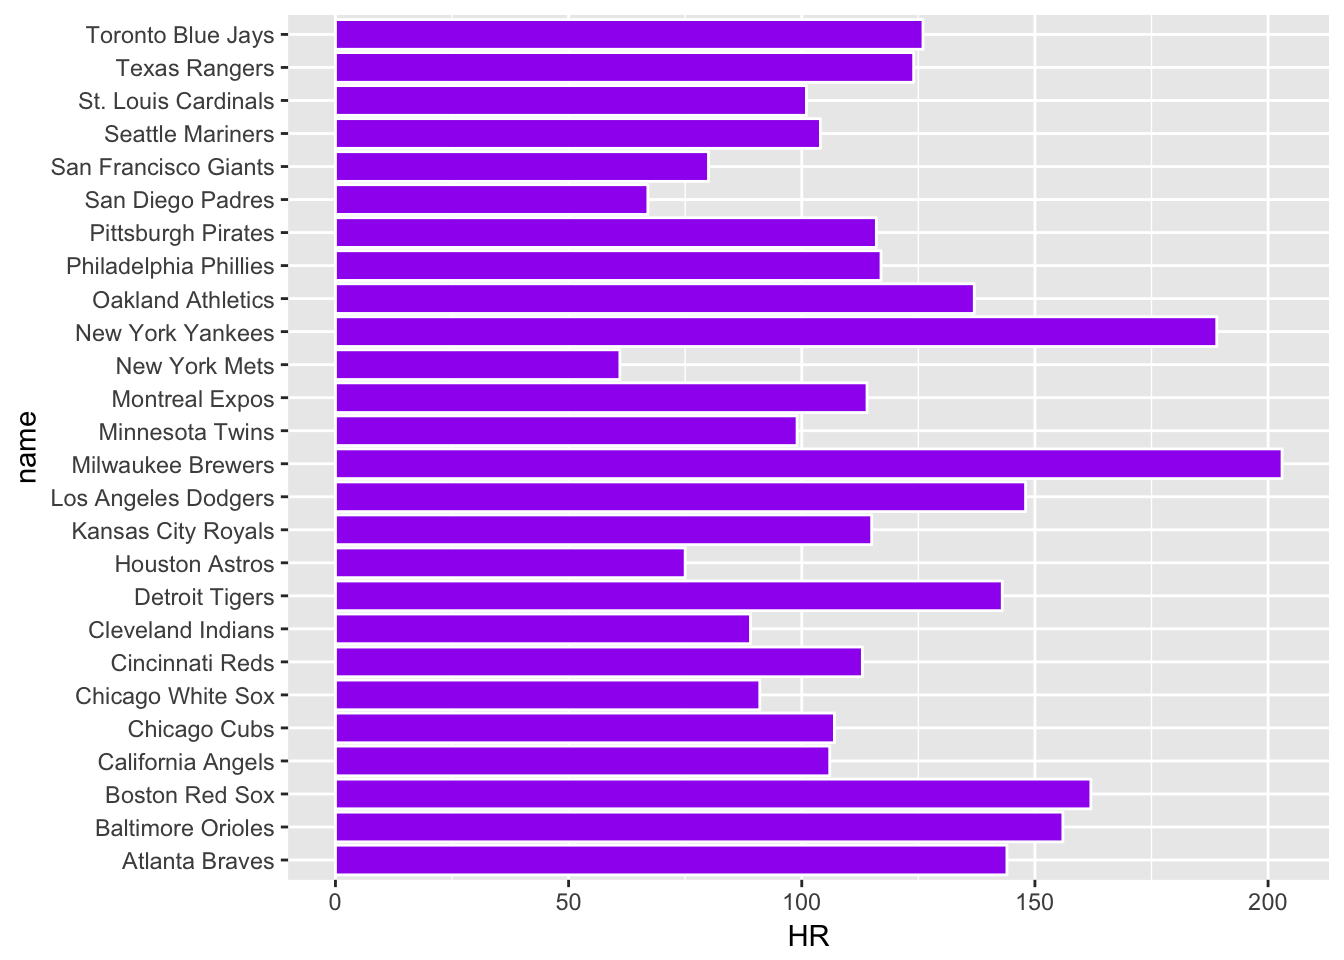
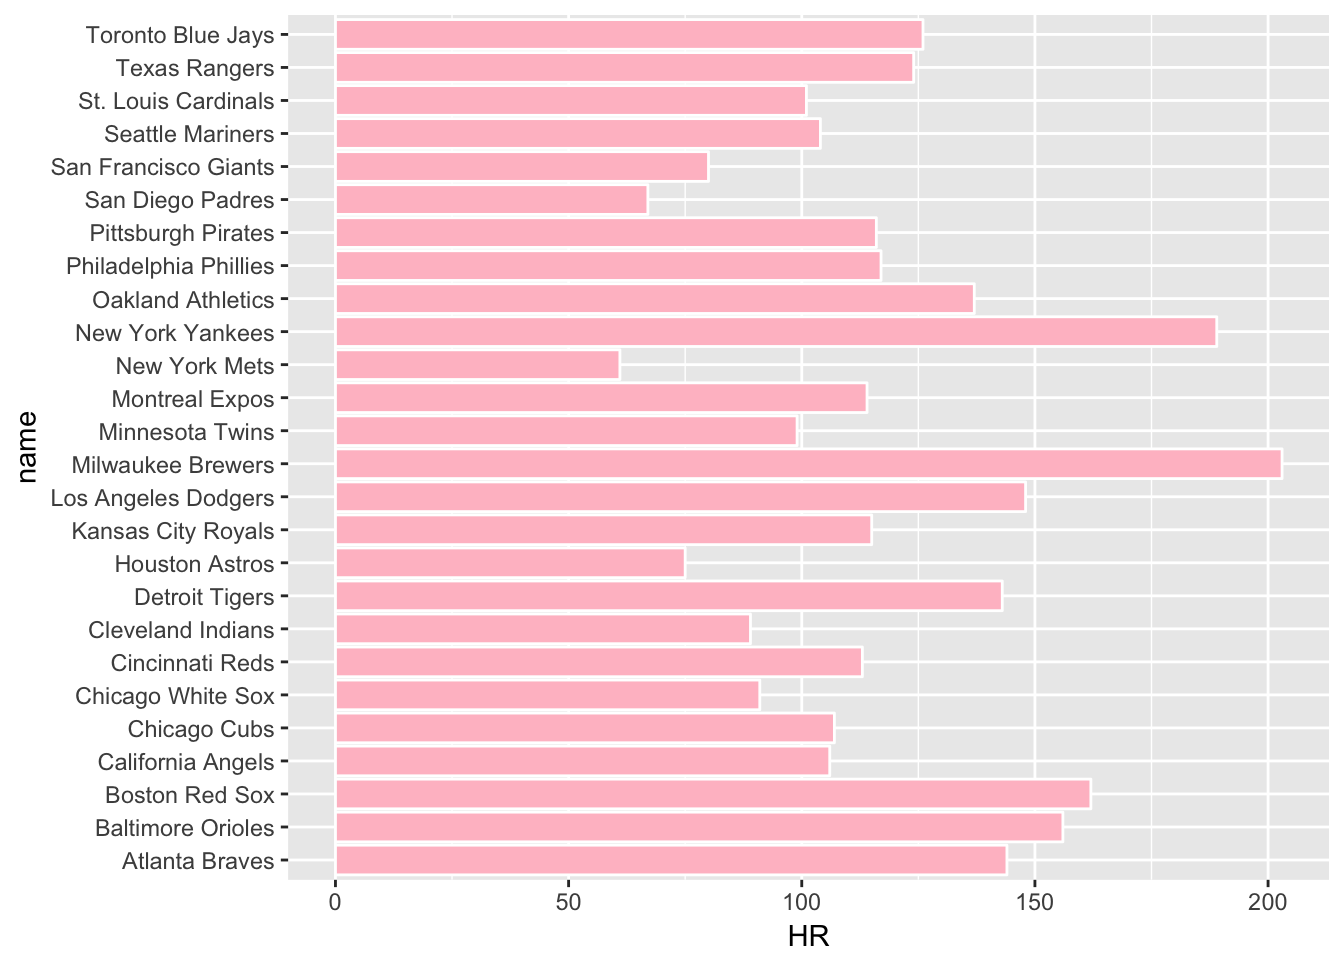
pink

diff --git a/public/index.html b/public/index.html
@@ -393,12 +393,12 @@ HR_VS_SO$name&lt;-paste(HR_VS_SO$nameFirst,HR_VS_SO$nameLast)</code></pre>
   select(name,HR)%&gt;%
   arrange(HR)</code></pre>
 <pre class="r"><code>ggplot()+
-  geom_bar(data = dft, aes(x=name,y=HR),stat = &quot;identity&quot;,color=&quot;white&quot;, fill=&quot;purple&quot;)+
+  geom_bar(data = dft, aes(x=name,y=HR),stat = &quot;identity&quot;,color=&quot;white&quot;, fill=&quot;pink&quot;)+
   coord_flip() </code></pre>
 <p><img src="/home/ggplot2-Bar-Chart_files/figure-html/unnamed-chunk-2-1.png" width="672" /></p>
 <p>dft<span class="math inline">\(name &lt;- factor(dft\)</span>name,levels=dft$name)</p>
 <pre class="r"><code>ggplot()+
-  geom_bar(data = dft, aes(x=name,y=HR),stat = &quot;identity&quot;,color=&quot;white&quot;, fill=&quot;purple&quot;)+
+  geom_bar(data = dft, aes(x=name,y=HR),stat = &quot;identity&quot;,color=&quot;white&quot;, fill=&quot;pink&quot;)+
   coord_flip() </code></pre>
 <p><img src="/home/ggplot2-Bar-Chart_files/figure-html/unnamed-chunk-3-1.png" width="672" /></p>
 

diff --git a/content/home/ggplot2-Bar-Chart.html b/content/home/ggplot2-Bar-Chart.html
@@ -11,11 +11,11 @@ output: html_document
   select(name,HR)%&gt;%
   arrange(HR)</code></pre>
 <pre class="r"><code>ggplot()+
-  geom_bar(data = dft, aes(x=name,y=HR),stat = &quot;identity&quot;,color=&quot;white&quot;, fill=&quot;purple&quot;)+
+  geom_bar(data = dft, aes(x=name,y=HR),stat = &quot;identity&quot;,color=&quot;white&quot;, fill=&quot;pink&quot;)+
   coord_flip() </code></pre>
 <p><img src="/home/ggplot2-Bar-Chart_files/figure-html/unnamed-chunk-2-1.png" width="672" /></p>
 <p>dft<span class="math inline">\(name &lt;- factor(dft\)</span>name,levels=dft$name)</p>
 <pre class="r"><code>ggplot()+
-  geom_bar(data = dft, aes(x=name,y=HR),stat = &quot;identity&quot;,color=&quot;white&quot;, fill=&quot;purple&quot;)+
+  geom_bar(data = dft, aes(x=name,y=HR),stat = &quot;identity&quot;,color=&quot;white&quot;, fill=&quot;pink&quot;)+
   coord_flip() </code></pre>
 <p><img src="/home/ggplot2-Bar-Chart_files/figure-html/unnamed-chunk-3-1.png" width="672" /></p>
